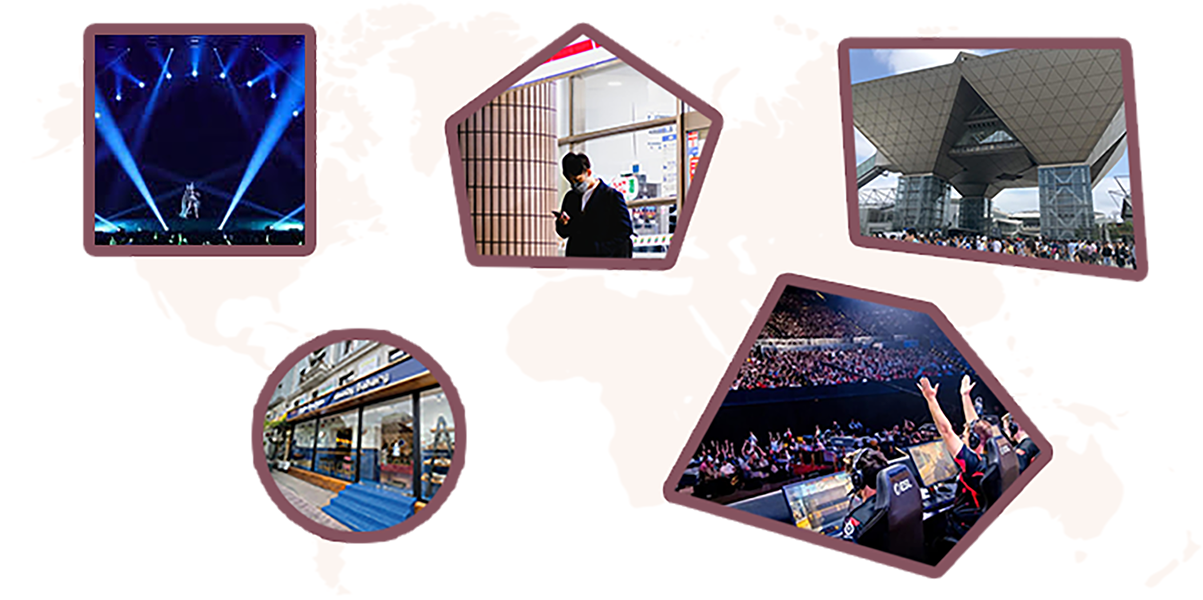
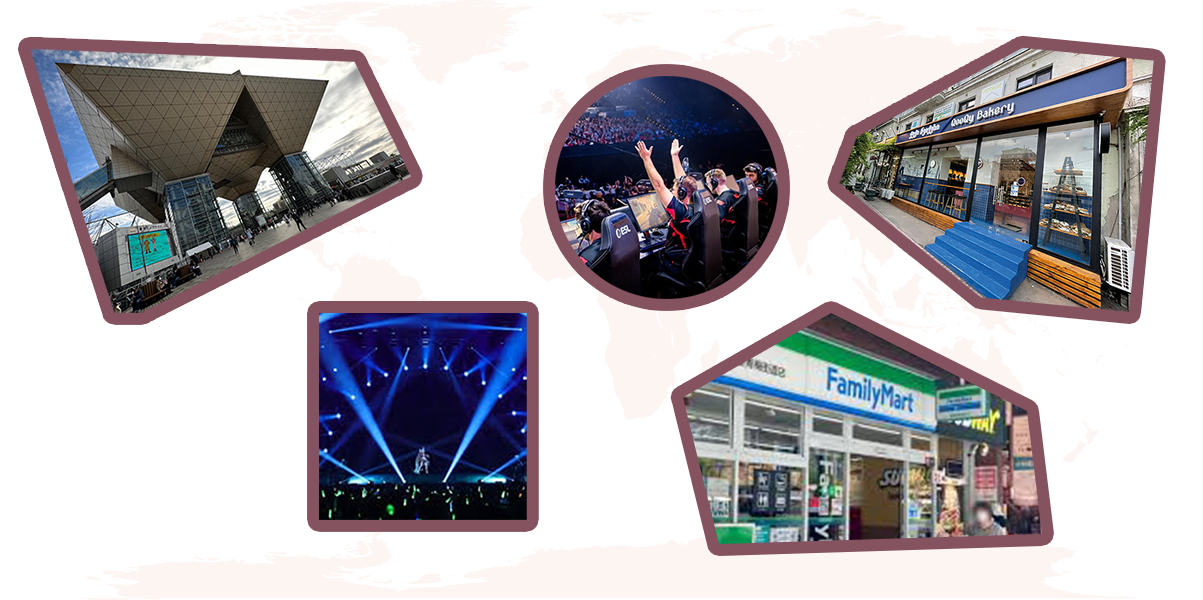
higher quality map

diff --git a/pages/places.html b/pages/places.html
@@ -46,7 +46,7 @@
               alt="Miku Expo 20XX"
               title="Miku Expo 20XX"
               href="place4.html"
-              coords="94,33,303,244"
+              coords="319,312,527,520"
               shape="rect"
               target="place"
             />
@@ -54,15 +54,15 @@
               alt="Georgia's Bakeries"
               title="Georgia's Bakeries"
               href="place1.html"
-              coords="360,435,96"
-              shape="circle"
+              coords="839,184,980,297,1129,310,1151,59,1023,47,858,136"
+              shape="poly"
               target="place"
             />
             <area
               alt="Japan's Konbini"
               title="Japan's Konbini"
               href="place3.html"
-              coords="477,254,455,127,581,34,710,120,665,258"
+              coords="683,398,719,544,1040,532,1025,411,830,312"
               shape="poly"
               target="place"
             />
@@ -70,15 +70,15 @@
               alt="Counter Strike Major Tournaments"
               title="Counter Strike Major Tournaments"
               href="place5.html"
-              coords="788,284,673,490,935,566,1041,453,926,313"
-              shape="poly"
+              coords="666,187,113"
+              shape="circle"
               target="place"
             />
             <area
               alt="Tokyo's Comiket"
               title="Tokyo's Comiket"
               href="place2.html"
-              coords="849,48,859,235,1134,269,1118,51"
+              coords="113,310,138,313,410,177,354,63,32,50"
               shape="poly"
               target="place"
             />

diff --git a/README.md b/README.md
@@ -1,7 +1,4 @@
 # No minecraft????
 
-## Places improvements
-- Increase quality of place picking image
-
 ## Galleria update
 Additionals of the images
